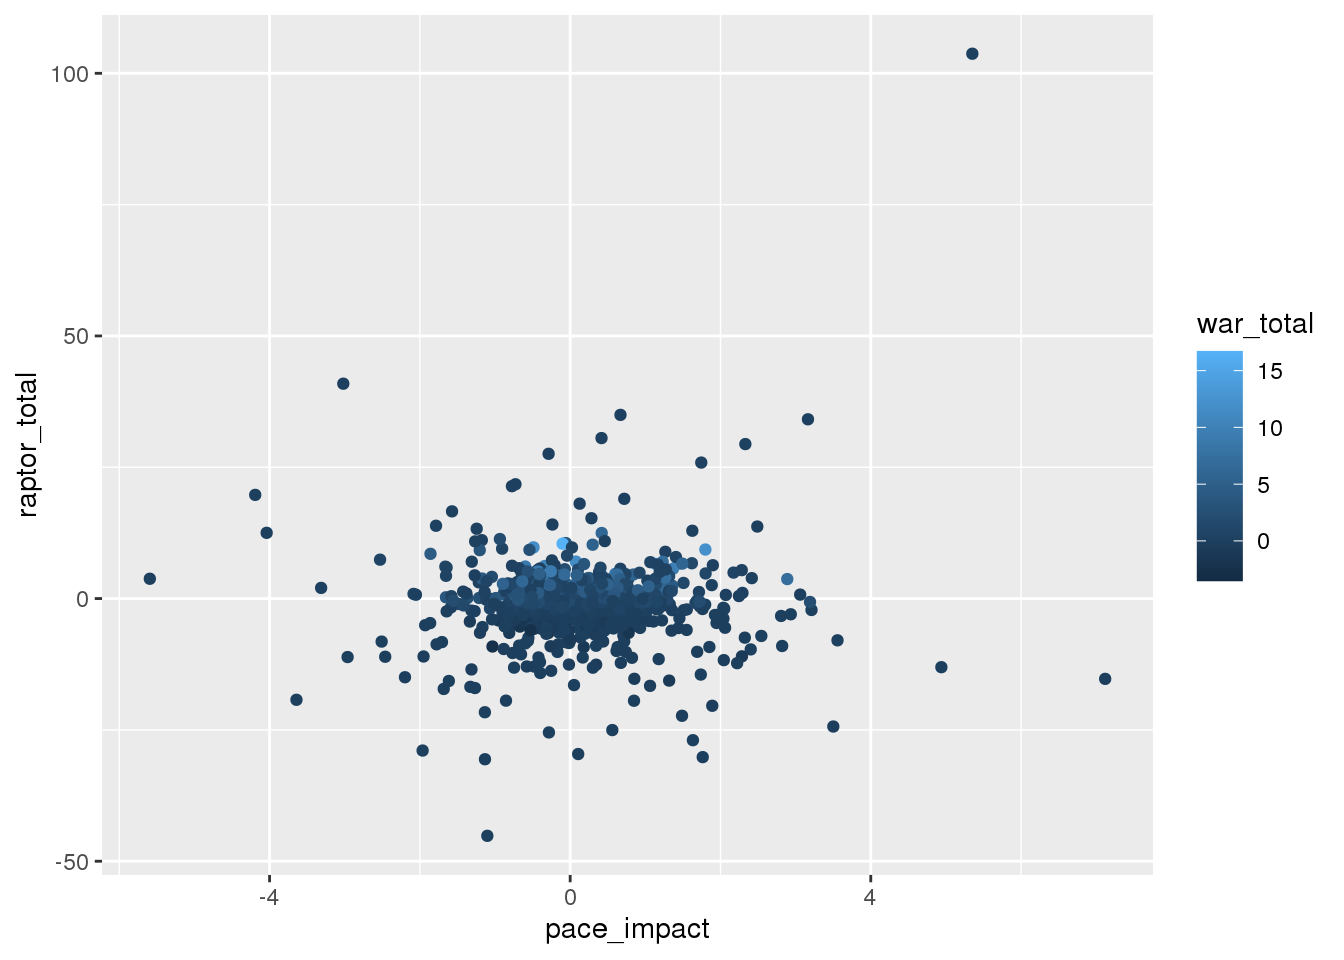
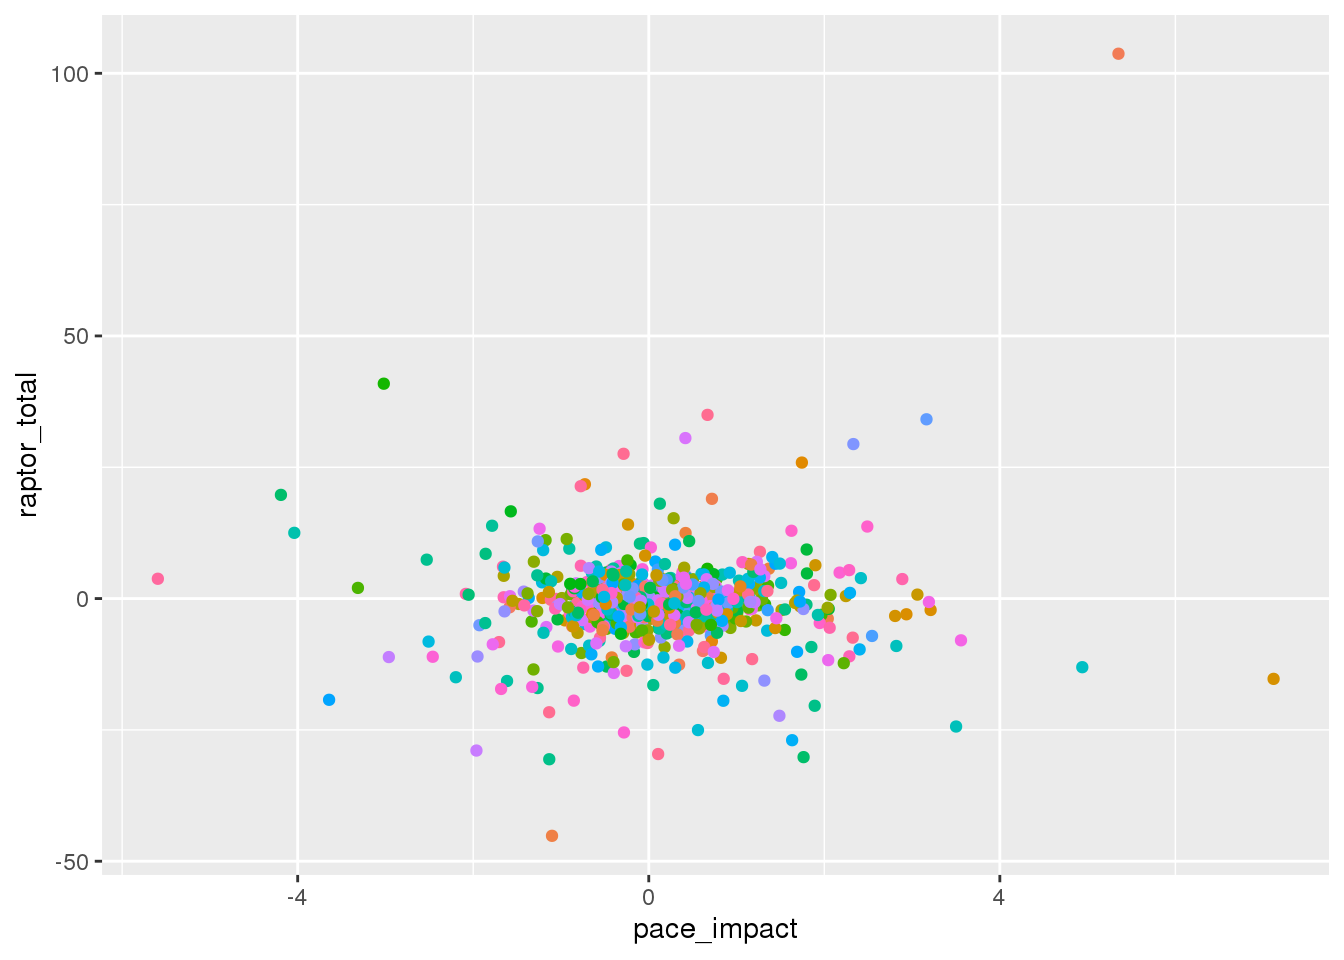
I think this is it

diff --git a/content/post/2020-12-09-nba-raptor-ratings-predictive-ability/index.html b/content/post/2020-12-09-nba-raptor-ratings-predictive-ability/index.html
@@ -1,6 +1,6 @@
 ---
-title: NBA RAPTOR Ratings' Predictive Ability
-author: ~
+title: "NBA RAPTOR Ratings' Predictive Ability"
+author: 'null'
 date: '2020-12-09'
 slug: nba-raptor-ratings-predictive-ability
 categories: []
@@ -18,26 +18,31 @@ RAPTOR_byteam_latest &lt;- read_csv(&quot;latest_RAPTOR_by_team.csv&quot;)
 RAPTOR_byplayer_hist &lt;- read_csv(&quot;historical_RAPTOR_by_player.csv&quot;)
 RAPTOR_byteam_hist &lt;- read_csv(&quot;historical_RAPTOR_by_team.csv&quot;)</code></pre>
 <p>In this project, I am examining individual players’ impact on their team’s success using the latest_RAPTOR_by_team.csv dataset(s) from the fivethirtyeight website. The data consists of 808 observations of 23 variables. The variable pace_impact represents a player’s impact on team possessions per 48 minutes, so if it is positive that means that that player is helping to increase the pace by which their team plays. This is relevant because by increasing their team’s pace they are helping add extra possessions. The variable raptor_total represents the points above average per 100 possessions added by player on both offense and defense. The war_total represents Wins Above Replacement between regular season and playoffs, so it is another variable that measures an individual player’s ability to influence the outcome. The mp variable represents minutes played, which can help give some context since the better players in the NBA will naturally be playing more minutes.</p>
-<p>The other dataset I will be using is the historical_RAPTOR_by_team.csv dataset, which consists of 27371 observations of 17 variables, and the historical_RAPTOR_by_player.csv dataset. The historical_RAPTOR_by_team.csv dataset contains RAPTOR data for every player broken out by team, season and season_type since the 1976 ABA-NBA merger. The historical_RAPTOR_by_player.csv dataset contains RAPTOR data for every player broken out by season since the 1976 ABA-NBA merger. The variable season_type is a variable that represents the type of season and has two levels: regular season (RS) and playoff (PO).</p>
+<p>The other dataset I will be using is the historical_RAPTOR_by_team.csv dataset, which consists of 27371 observations of 17 variables, and the historical_RAPTOR_by_player.csv dataset. The historical_RAPTOR_by_team.csv dataset contains RAPTOR data for every player broken out by team, season and season_type since the 1976 ABA-NBA merger. The historical_RAPTOR_by_player.csv dataset contains RAPTOR data for every player broken out by season since the 1976 ABA-NBA merger. The variable season_type is a variable that represents the type of season and has two levels: regular season (RS) and playoff (PO). I will also compare this dataset with the historical_RAPTOR_by_player.csv dataset which has 17483 observations of 15 variables and it contains RAPTOR data for every player broken out by season since the 1976 ABA-NBA merger. The 2 variables the historical_RAPTOR_by_team.csv dataset has that the historical_RAPTOR_by_player.csv doesn’t aren’t</p>
 </div>
 <div id="question-1" class="section level2">
 <h2>Question 1</h2>
 <p>So how does the pace_impact of a player indicate their impact on the outcome of the game for their team? If so, what was the effect? First we need to graph the pace_impact variable to see if there is a correlation.</p>
-<pre class="r"><code># graphed raptor_total vs. pace_impact, but correlated minutes played to size and war_total to color 
-ggplot(data = RAPTOR_byteam_latest, mapping = aes(pace_impact, raptor_total, color = war_total)) +
-  geom_point()  </code></pre>
+<pre class="r"><code># graphed raptor_total vs. pace_impact, but correlated player_name to color to improve the graph aesthetically
+ggplot(data = RAPTOR_byteam_latest, mapping = aes(pace_impact, raptor_total, color = player_name)) +
+  geom_point() +
+  theme(legend.position = &quot;None&quot;)</code></pre>
 <pre><code>## Warning: Removed 2 rows containing missing values (geom_point).</code></pre>
 <p><img src="index_files/figure-html/unnamed-chunk-2-1.png" width="672" /></p>
-<pre class="r"><code>ggplot(data = RAPTOR_byteam_latest, mapping = aes(pace_impact, raptor_total, color = war_total, size = mp)) +
-  geom_point() </code></pre>
+<pre class="r"><code># here I did the same thing as before except adding a new layer by correlating minutes played to size
+ggplot(data = RAPTOR_byteam_latest, mapping = aes(pace_impact, raptor_total, color = player_name, size = mp)) +
+  geom_point() +
+  facet_wrap(~ season_type) +
+  theme(legend.position = &quot;None&quot;)</code></pre>
 <pre><code>## Warning: Removed 2 rows containing missing values (geom_point).</code></pre>
-<p><img src="index_files/figure-html/unnamed-chunk-2-2.png" width="672" />
-On the first graph most of the data values, and WAR ratings do not seem to have a consistent trend. However there are some higher data values that didn’t have a clear explanation so I decided to correlate the dot size to minutes played on the second graph. I did this because RAPTOR data is supposed to be used to determine how effctive a player is, but does not necessarily always account for sample size. In the second graph we can see that all the outlier values are smaller dots which means they are for players who do not play as many minutes which hurts their level of effectiveness compared to the other players in the league.</p>
-<p>The difference between the two graphs shows that the pace_impact does not have much of an impact on team success. Of all the bigger dots that represent players that get a substantial minutes, none of them reach above a raptor_total rating of 25. This suggests that even if a better player helps increase the pace of play, effectively earning extra possessions for their team, it won’t make a noticable difference.</p>
+<p><img src="index_files/figure-html/unnamed-chunk-2-2.png" width="672" /></p>
+<p>On the first graph most of the data values, the correlation between pace_impact and raptor_total did not seem to have a consistent trend. However there are some higher data values that didn’t have any context so I decided to correlate the dot size to minutes played on the second graph. I did this because RAPTOR data is supposed to be used to determine how effective a player is, but does not necessarily always account for sample size. In the second graph we can see that all the outlier values are smaller dots which means they are for players who play fewer minutes likely in roles coming off the bench which hurts their ability to affect the outcome of the game compared to the other players in the league who have bigger roles and by association more minutes played in each game.</p>
+<p>The difference between the two graphs shows that in the regular season the pace_impact does not have much of an impact on team success. Of all the bigger dots that represent players that get a substantial minutes, none of them reach above a raptor_total rating of 25, instead they are concentrated around the origin. This suggests that even if a better player helps increase the pace of play, effectively earning extra possessions for their team, it most likely will not make a noticeable difference on the outcome for their team.</p>
+<p>However, for the playoffs it seems to make more of a difference. You see a lot more larger dots above the origin. This suggests that if a team’s larger contributors can impact the pace of the game this can allow them to positively impact the outcome of the game. We’ll get more into this in some of the other questions.</p>
 </div>
 <div id="question-2" class="section level2">
 <h2>Question 2</h2>
-<p>The next thing I want to test is whether the distribution of the data varies from the regular season to the post season.</p>
+<p>The next thing I want to test is whether the distribution of the data varies from the regular season to the post season, and what that can tell you about the success of individual teams.</p>
 <pre class="r"><code>reg_season &lt;- RAPTOR_byteam_hist %&gt;%
   filter(season_type == &quot;RS&quot;) 
 
@@ -58,25 +63,41 @@ playoffs &lt;-  RAPTOR_byteam_hist %&gt;%
   theme(legend.position = &quot;None&quot;) +
   theme(axis.text.x = element_text(angle = -90, hjust = 0))</code></pre>
 <p><img src="index_files/figure-html/unnamed-chunk-4-2.png" width="672" /></p>
-<p>In the two graphics above graphed the number of possessions vs. the type of season (regular season or playoffs). The number of possessions are more consistently high on the regular season graph than they are on the graph for the playoffs. One possible explanation for this would be that not everyone plays as long as the others in the playoffs because they might have gotten eliminated earlier. However, even the peaks on the playoff graphic appear to be not as high as the average during the regular season. Could this mean that the number of possessions, or in other words the number of opportunities to score, become lower in the playoffs?</p>
+<p>In the two graphics above graphed the number of possessions vs. the type of season (regular season or playoffs). The distribution of the number of possessions is pretty uniform among all teams in the regular season since everyone plays the same amount of games. The only insight it really gives us the lifespan of certain teams. For example, there is no data for Seattle after 2010 because in 2008 they moved to Oklahoma City, and there is no data for the Toronto Raptors before 1990 because they didn’t join the NBA until 1995. However, the playoff possession data gives us more insight into the success of individual teams. For example, the Detroit Pistons have two spikes in their numbers that coincide with the “Bad Boy” era in the late 80’s when they won 2 championships, and the mid 2000’s when they won another championship. The Lakers numbers are basically super high across the board except for during the 70’s (transition between Wilt Chamberlain and Jerry West leaving and Kareem Abdul-Jabaar signing with the team), and the late 2010’s after Kobe Bryant retired. It seems like a lot to look at at first, but it can give the viewer quick insight of a team’s long-term success similar to looking at the history of the ups and downs of a big company’s stock.</p>
 </div>
 <div id="question-3" class="section level2">
 <h2>Question 3</h2>
 <p>The last thing I would like to investigate is the predictive accuracy of NBA RAPTOR data.</p>
-<pre class="r"><code>ggplot(RAPTOR_byteam_hist, aes(predator_total, raptor_total)) +
-  geom_line(color=&quot;blue&quot;) +
+<pre class="r"><code>library(patchwork)
+
+p1 &lt;- ggplot(RAPTOR_byteam_hist, aes(predator_total, raptor_total)) +
+  geom_point(color=&quot;blue&quot;, alpha = RAPTOR_byteam_hist$war_total) +
+  stat_smooth(color=&quot;red&quot;) +
   ggtitle(&quot;Historical RAPTOR data by team&quot;) +
-  theme(plot.title = element_text(hjust = 0.5))</code></pre>
-<p><img src="index_files/figure-html/unnamed-chunk-5-1.png" width="672" /></p>
-<pre class="r"><code>ggplot(RAPTOR_byplayer_hist, aes(predator_total, raptor_total)) +
-  geom_line(color=&quot;red&quot;) +
+  theme(plot.title = element_text(hjust = 0.5)) +
+  xlim(-25, 165) +
+  ylim(-25, 165)
+
+p2 &lt;- ggplot(RAPTOR_byplayer_hist, aes(predator_total, raptor_total)) +
+  geom_point(color=&quot;red&quot;, alpha = RAPTOR_byplayer_hist$war_total) +
+  stat_smooth(color=&quot;blue&quot;) +
   ggtitle(&quot;Historical RAPTOR data by player&quot;) +
-  theme(plot.title = element_text(hjust = 0.5))</code></pre>
-<p><img src="index_files/figure-html/unnamed-chunk-5-2.png" width="672" />
-For both graphs I tested the predictive ability of the RAPTOR data by graphing the raptor_total variable vs. the predator_total for the historical_RAPTOR_by_player.csv and the historical_RAPTOR_by_team.csv datasets. The data does spike in both directions, but its trend is fairly linear. This suggests that more times than not, RAPTOR data has been accurate in predicting value added for individual players.</p>
+  theme(plot.title = element_text(hjust = 0.5)) +
+  xlim(-25, 50) +
+  ylim(-25, 50) +
+  ylab(&quot;&quot;)
+
+p1 + p2</code></pre>
+<pre><code>## Warning: Removed 166 rows containing non-finite values (stat_smooth).</code></pre>
+<pre><code>## Warning: Removed 166 rows containing missing values (geom_point).</code></pre>
+<pre><code>## Warning: Removed 41 rows containing non-finite values (stat_smooth).</code></pre>
+<pre><code>## Warning: Removed 41 rows containing missing values (geom_point).</code></pre>
+<p><img src="index_files/figure-html/unnamed-chunk-5-1.png" width="672" /></p>
+<p>For both graphs I tested the predictive ability of the RAPTOR data by graphing the raptor_total variable vs. the predator_total for the historical_RAPTOR_by_player.csv and the historical_RAPTOR_by_team.csv datasets. The data does deviate from the trend line slightly in both directions, but its trend is fairly linear. This suggests that more times than not, RAPTOR data has been accurate in predicting value added for individual players. I also correlated the alpha level to the amount of minutes played so the darker the point means that player plays more minutes making them more impactful. The darker dots are closer to the origin than the lighter ones, which suggests that for players in more significant roles their total raptor rating (Points above average per 100 possessions added by player on both offense and defense) and total predator rating (Predictive points above average per 100 possessions added by player on both offense and defense) will have a stronger correlation.</p>
 </div>
 <div id="conclusion" class="section level2">
 <h2>Conclusion</h2>
-<p>More advanced stats like pace_impact do not seem to make an impact on a team’s success. However, as we saw in the graphs for possessions in the regular season vs. the post season, when teams get to more high-pressure situations like the playoffs having those extra possessions due to an increased pace could mean the difference between victory and defeat.</p>
-<p>However, in the graphs for pace_impact I saw how important context could be after assigning the variable for minutes played (mp) to the size of the points in the dot plot. After making that change the result showed that all the values for players who played a significant amount of minutes did not have high RAPTOR scores, and the only ones who did were players who played a much lesser amount of minutes.</p>
+<p>More advanced stats like pace_impact do not have a high impact on a team’s success during the regular season. However, as we saw in the graphs for possessions in the regular season vs. the post season, when teams get to more high-pressure situations like the playoffs they are not guaranteed as many possessions as they are in the regular season. Having those extra possessions due to an increased pace could mean the difference between victory and defeat.</p>
+<p>However, in the graphs for pace_impact I also saw how important context could be after assigning the variable for minutes played (mp) to the size of the points in the dot plot. After making that change the result showed that all the values for players who played a significant amount of minutes did not have high RAPTOR scores, and the only ones who did were players who played a much lesser amount of minutes.</p>
+<p>The last graph suggested what the nature of the relationship between the predator_total variable and the raptor_total variable. Since predator_total has to do with predicitive impact and raptor_total has to do with actual impact, the relationship can indicate the predictive power of RAPTOR statistics. Due to the close proximity to the origin for both graphs one can assume this means that RAPTOR statistics are structured in a way where they can actually accurately predict future outcomes.</p>
 </div>
